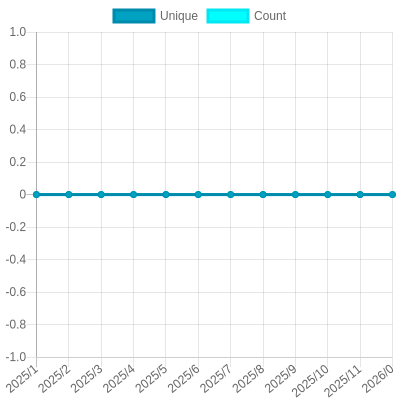
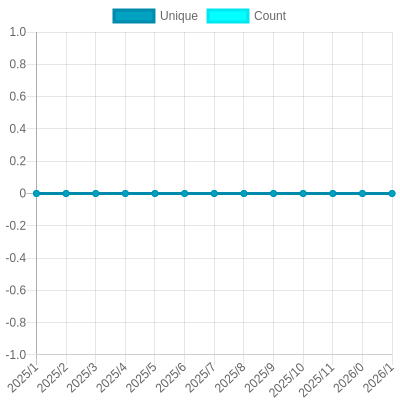
Update views

diff --git a/README.md b/README.md
@@ -26,7 +26,7 @@ The project created and maintained by [gayanvoice](https://github.com/gayanvoice
 			</a>
 		</td>
 		<td>
-			2025/1/30 1:24 AM UTC
+			2025/1/31 1:25 AM UTC
 		</td>
 		<td>
 			13
@@ -37,7 +37,7 @@ The project created and maintained by [gayanvoice](https://github.com/gayanvoice
 	</tr>
 </table>
 
-<small><i>Last updated on 2025/2/1 6:23 PM UTC</i></small>
+<small><i>Last updated on 2025/2/2 1:36 AM UTC</i></small>
 
 ## ✂Copy and 📋 Paste
 ### Total Views Badge

diff --git a/readme/502510925/year.md b/readme/502510925/year.md
@@ -20,6 +20,17 @@
 	</tr>
 	<tr>
 		<td>
+			<code>2025/2/1</code>
+		</td>
+		<td>
+			<code>0</code>
+		</td>
+		<td>
+			<code>0</code>
+		</td>
+	</tr>
+	<tr>
+		<td>
 			<code>2025/1/1</code>
 		</td>
 		<td>
@@ -153,7 +164,7 @@
 </table>
 
 </details>
-<small><i>Last updated on 2025/2/1 6:23 PM UTC</i></small>
+<small><i>Last updated on 2025/2/2 1:36 AM UTC</i></small>
 
 ## ✂Copy and 📋 Paste
 ### SVG Badge
